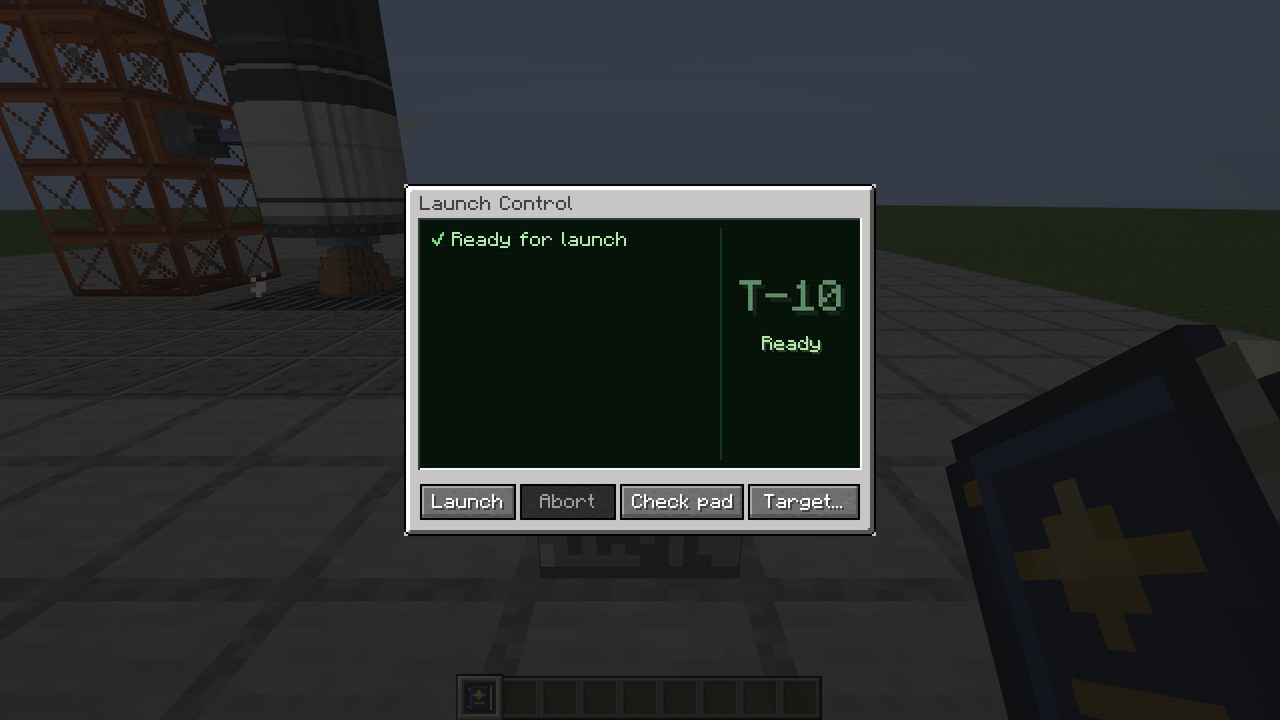
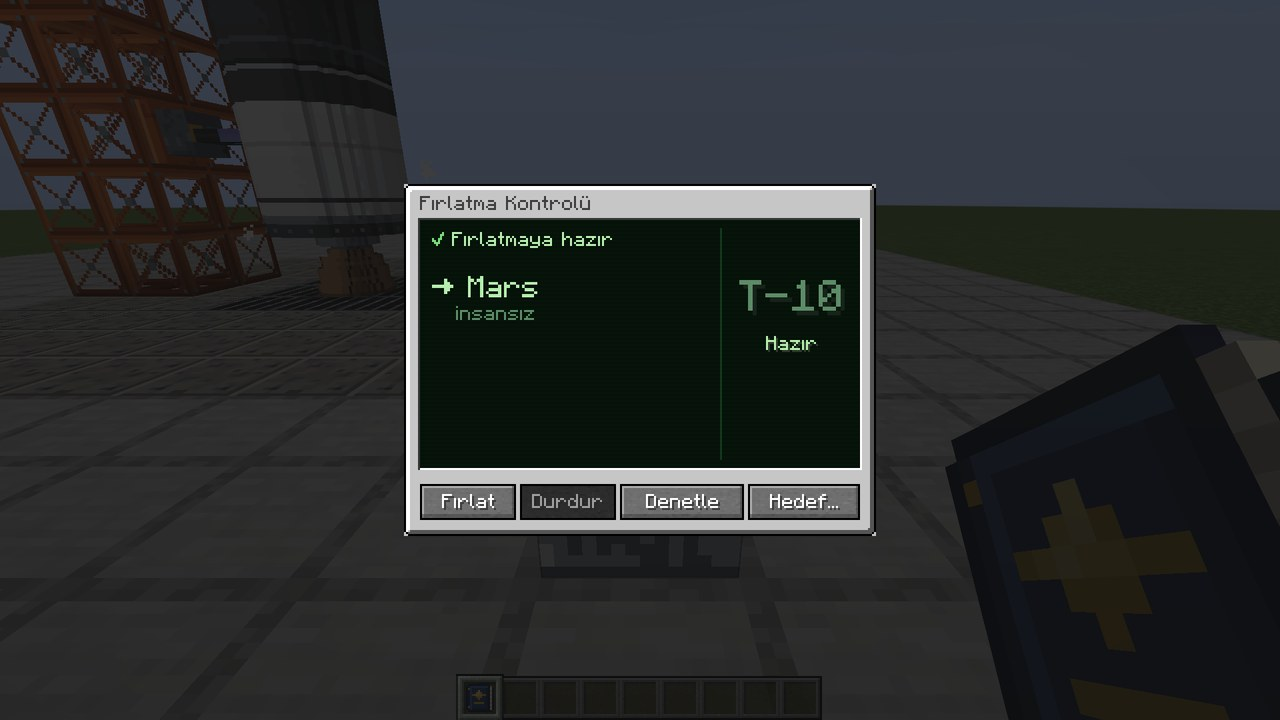
Rocketry: a ready launch console shows where the rocket is going, large (with uncrewed or cargo route beneath)

diff --git a/src/main/java/com/pizzaparker07/spacebreaker/client/rocketry/LaunchConsoleScreen.java b/src/main/java/com/pizzaparker07/spacebreaker/client/rocketry/LaunchConsoleScreen.java
@@ -162,6 +162,24 @@ public class LaunchConsoleScreen extends AbstractContainerScreen<LaunchConsoleMe
         return out;
     }
 
+    /** Where the rocket is going ("-> Mars") and, smaller, what kind of flight (uncrewed, cargo route); a crewed rocket first goes to orbit. */
+    @org.jetbrains.annotations.Nullable
+    private Component[] destination() {
+        if (menu.get(LaunchConsoleMenu.STATE) < 0) {
+            return null;
+        }
+        RocketEntity drone = uncrewed();
+        if (drone == null) {
+            return new Component[]{Component.translatable("gui.spacebreaker.console.goal",
+                    com.pizzaparker07.spacebreaker.content.rocketry.nav.Location.EARTH_ORBIT.name()), null};
+        }
+        Component where = drone.missionTarget().map(l -> (Component) l.name())
+                .orElse(com.pizzaparker07.spacebreaker.content.rocketry.nav.Location.EARTH_ORBIT.name());
+        boolean route = drone.hasCargoHold() && drone.routeStatus() != RocketEntity.RouteStatus.OFF;
+        return new Component[]{Component.translatable("gui.spacebreaker.console.goal", where),
+                Component.translatable(route ? "gui.spacebreaker.console.goal_route" : "gui.spacebreaker.console.goal_uncrewed")};
+    }
+
     private static Component name(String key) {
         return Component.translatable("gui.spacebreaker.console.name." + key);
     }
@@ -183,6 +201,19 @@ public class LaunchConsoleScreen extends AbstractContainerScreen<LaunchConsoleMe
         if (shown.isEmpty()) {
             g.drawString(font, "\u2714 ", x, y, GREEN, false);
             g.drawString(font, Component.translatable("gui.spacebreaker.console.all_ready"), x + 10, y, TEXT, false);
+            // where it is going, large, so nobody has to hover to see it
+            Component[] goal = destination();
+            if (goal != null) {
+                g.pose().pushPose();
+                g.pose().translate(x, y + 22, 0);
+                float scale = Math.min(1.5F, 136F / Math.max(1, font.width(goal[0])));
+                g.pose().scale(scale, scale, 1);
+                g.drawString(font, goal[0], 0, 0, TEXT, false);
+                g.pose().popPose();
+                if (goal[1] != null) {
+                    g.drawString(font, goal[1], x + 12, y + 37, DIM, false);
+                }
+            }
         }
         for (int i = 0; i < shown.size(); i++) {
             Row r = shown.get(i);

diff --git a/src/main/java/com/pizzaparker07/spacebreaker/content/rocketry/RocketryLang.java b/src/main/java/com/pizzaparker07/spacebreaker/content/rocketry/RocketryLang.java
@@ -358,6 +358,9 @@ final class RocketryLang {
         l.add("gui.spacebreaker.console.abort", "Abort", "Durdur");
         l.add("gui.spacebreaker.console.check", "Check pad", "Denetle");
         l.add("gui.spacebreaker.console.check.tip", "Writes the full pad report to chat", "Rampanın tam raporunu sohbete yazar");
+        l.add("gui.spacebreaker.console.goal", "→ %s", "→ %s");
+        l.add("gui.spacebreaker.console.goal_uncrewed", "uncrewed", "insansız");
+        l.add("gui.spacebreaker.console.goal_route", "cargo route", "kargo seferi");
         l.add("gui.spacebreaker.console.all_ready", "Ready for launch", "Fırlatmaya hazır");
         l.add("gui.spacebreaker.console.name.pad", "Pad and trench", "Rampa ve kanal");
         l.add("gui.spacebreaker.console.name.tower", "Service tower", "Servis kulesi");
